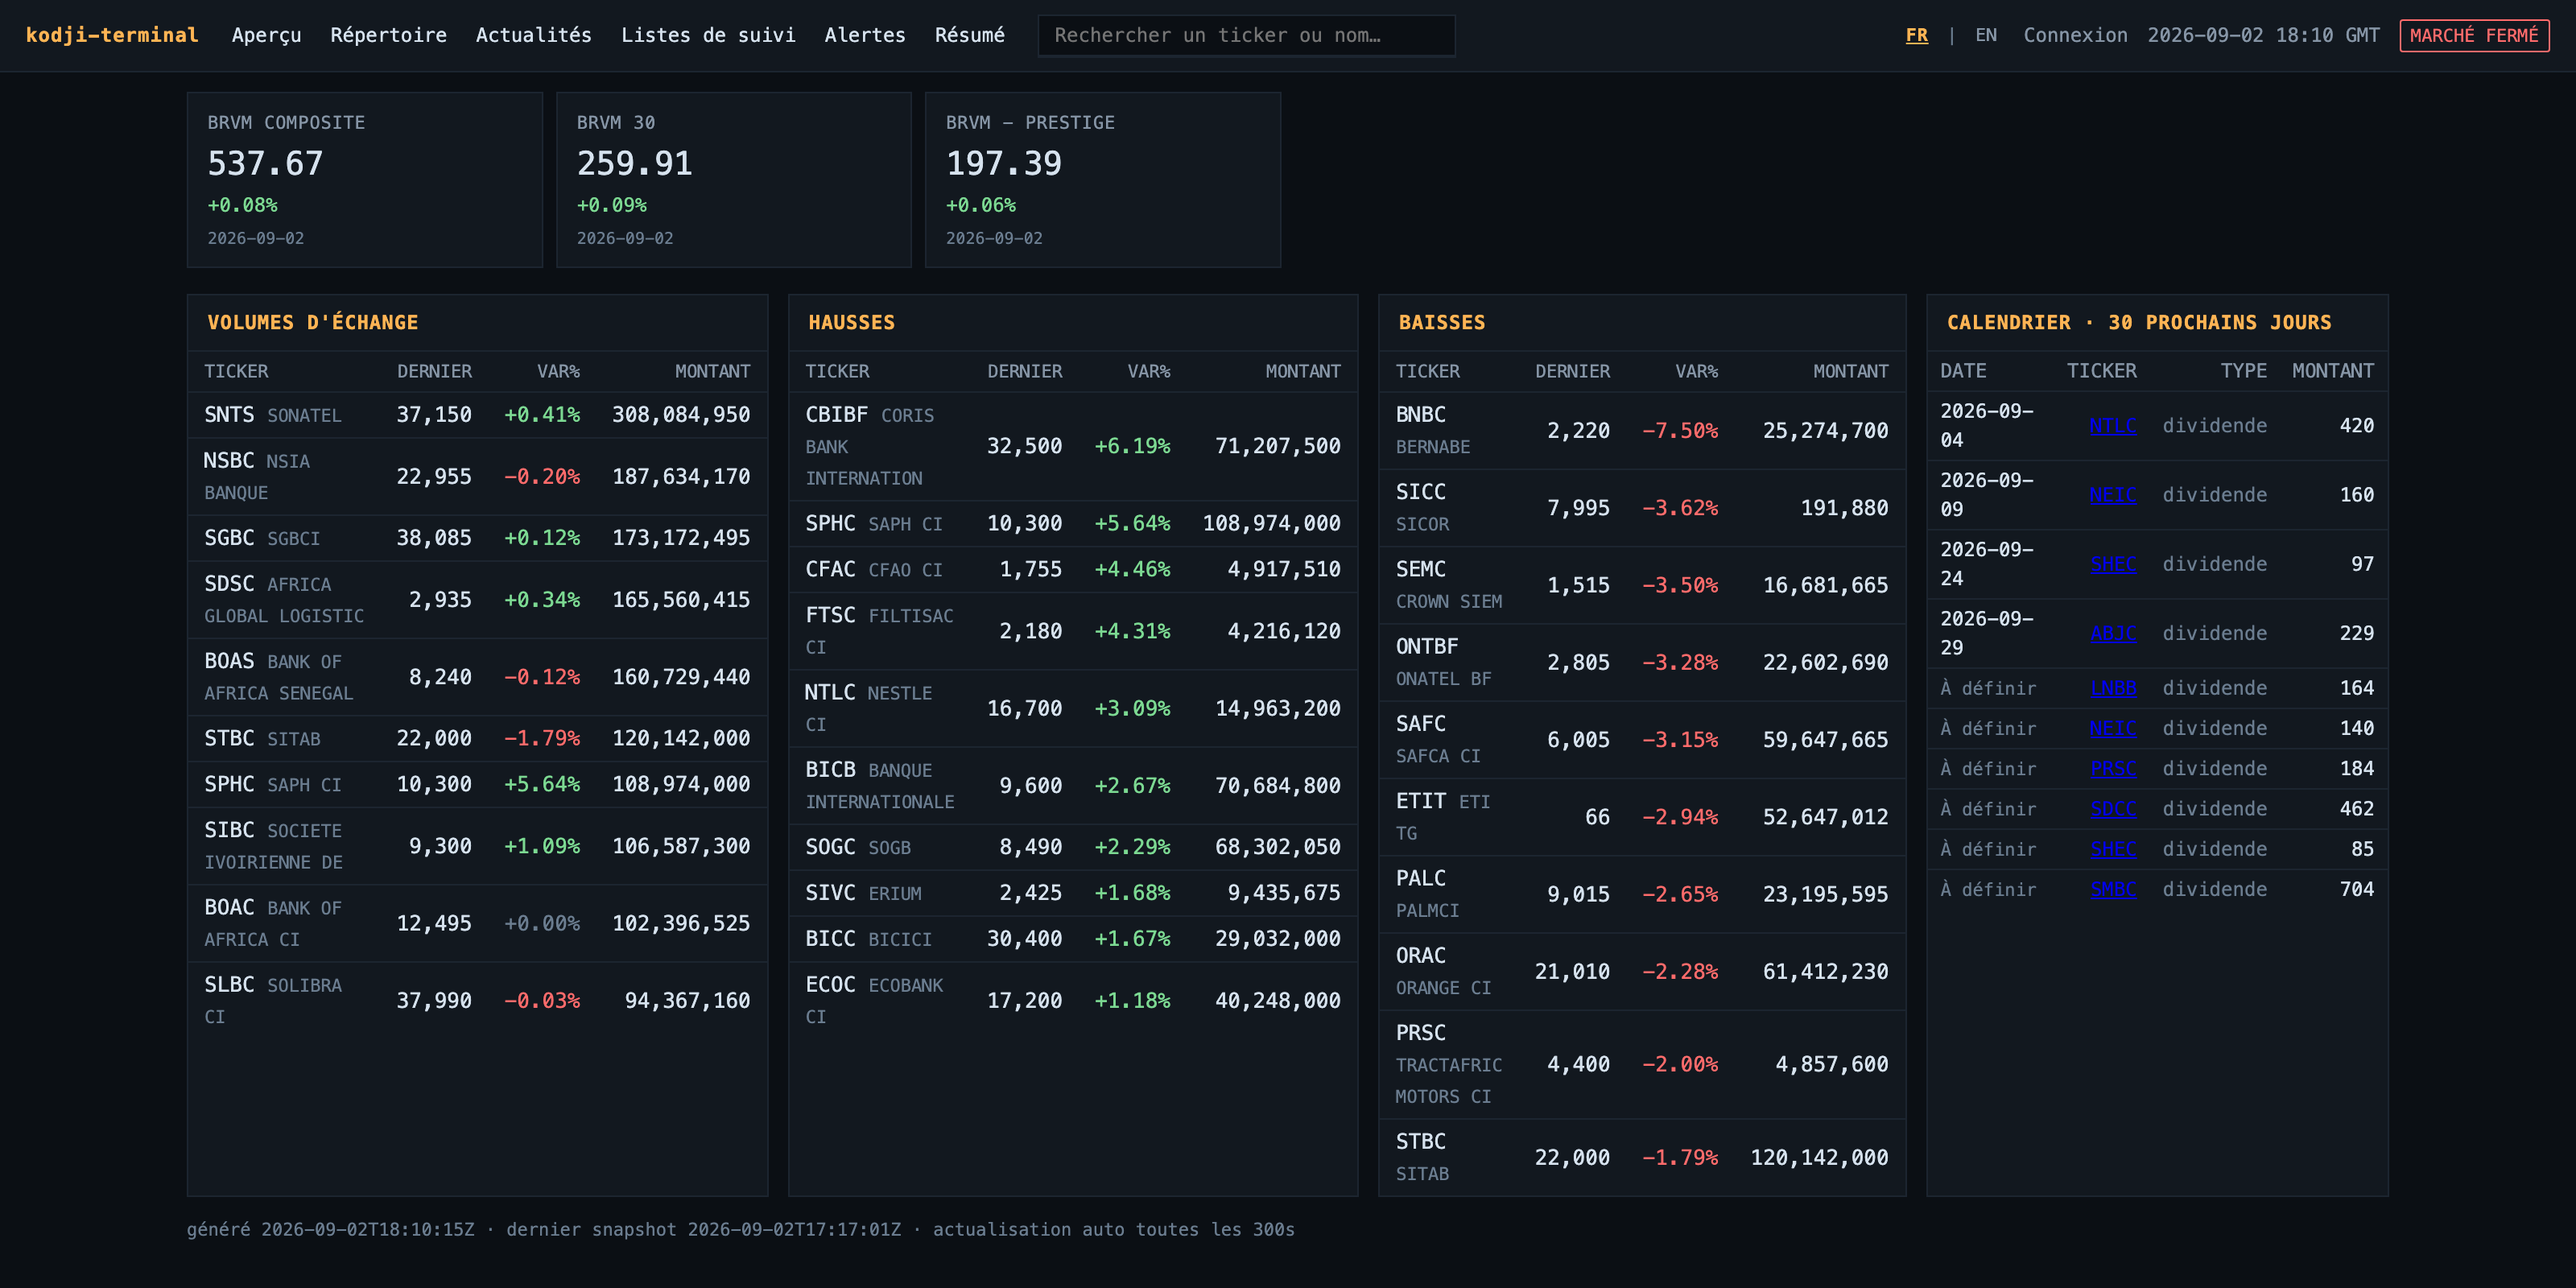
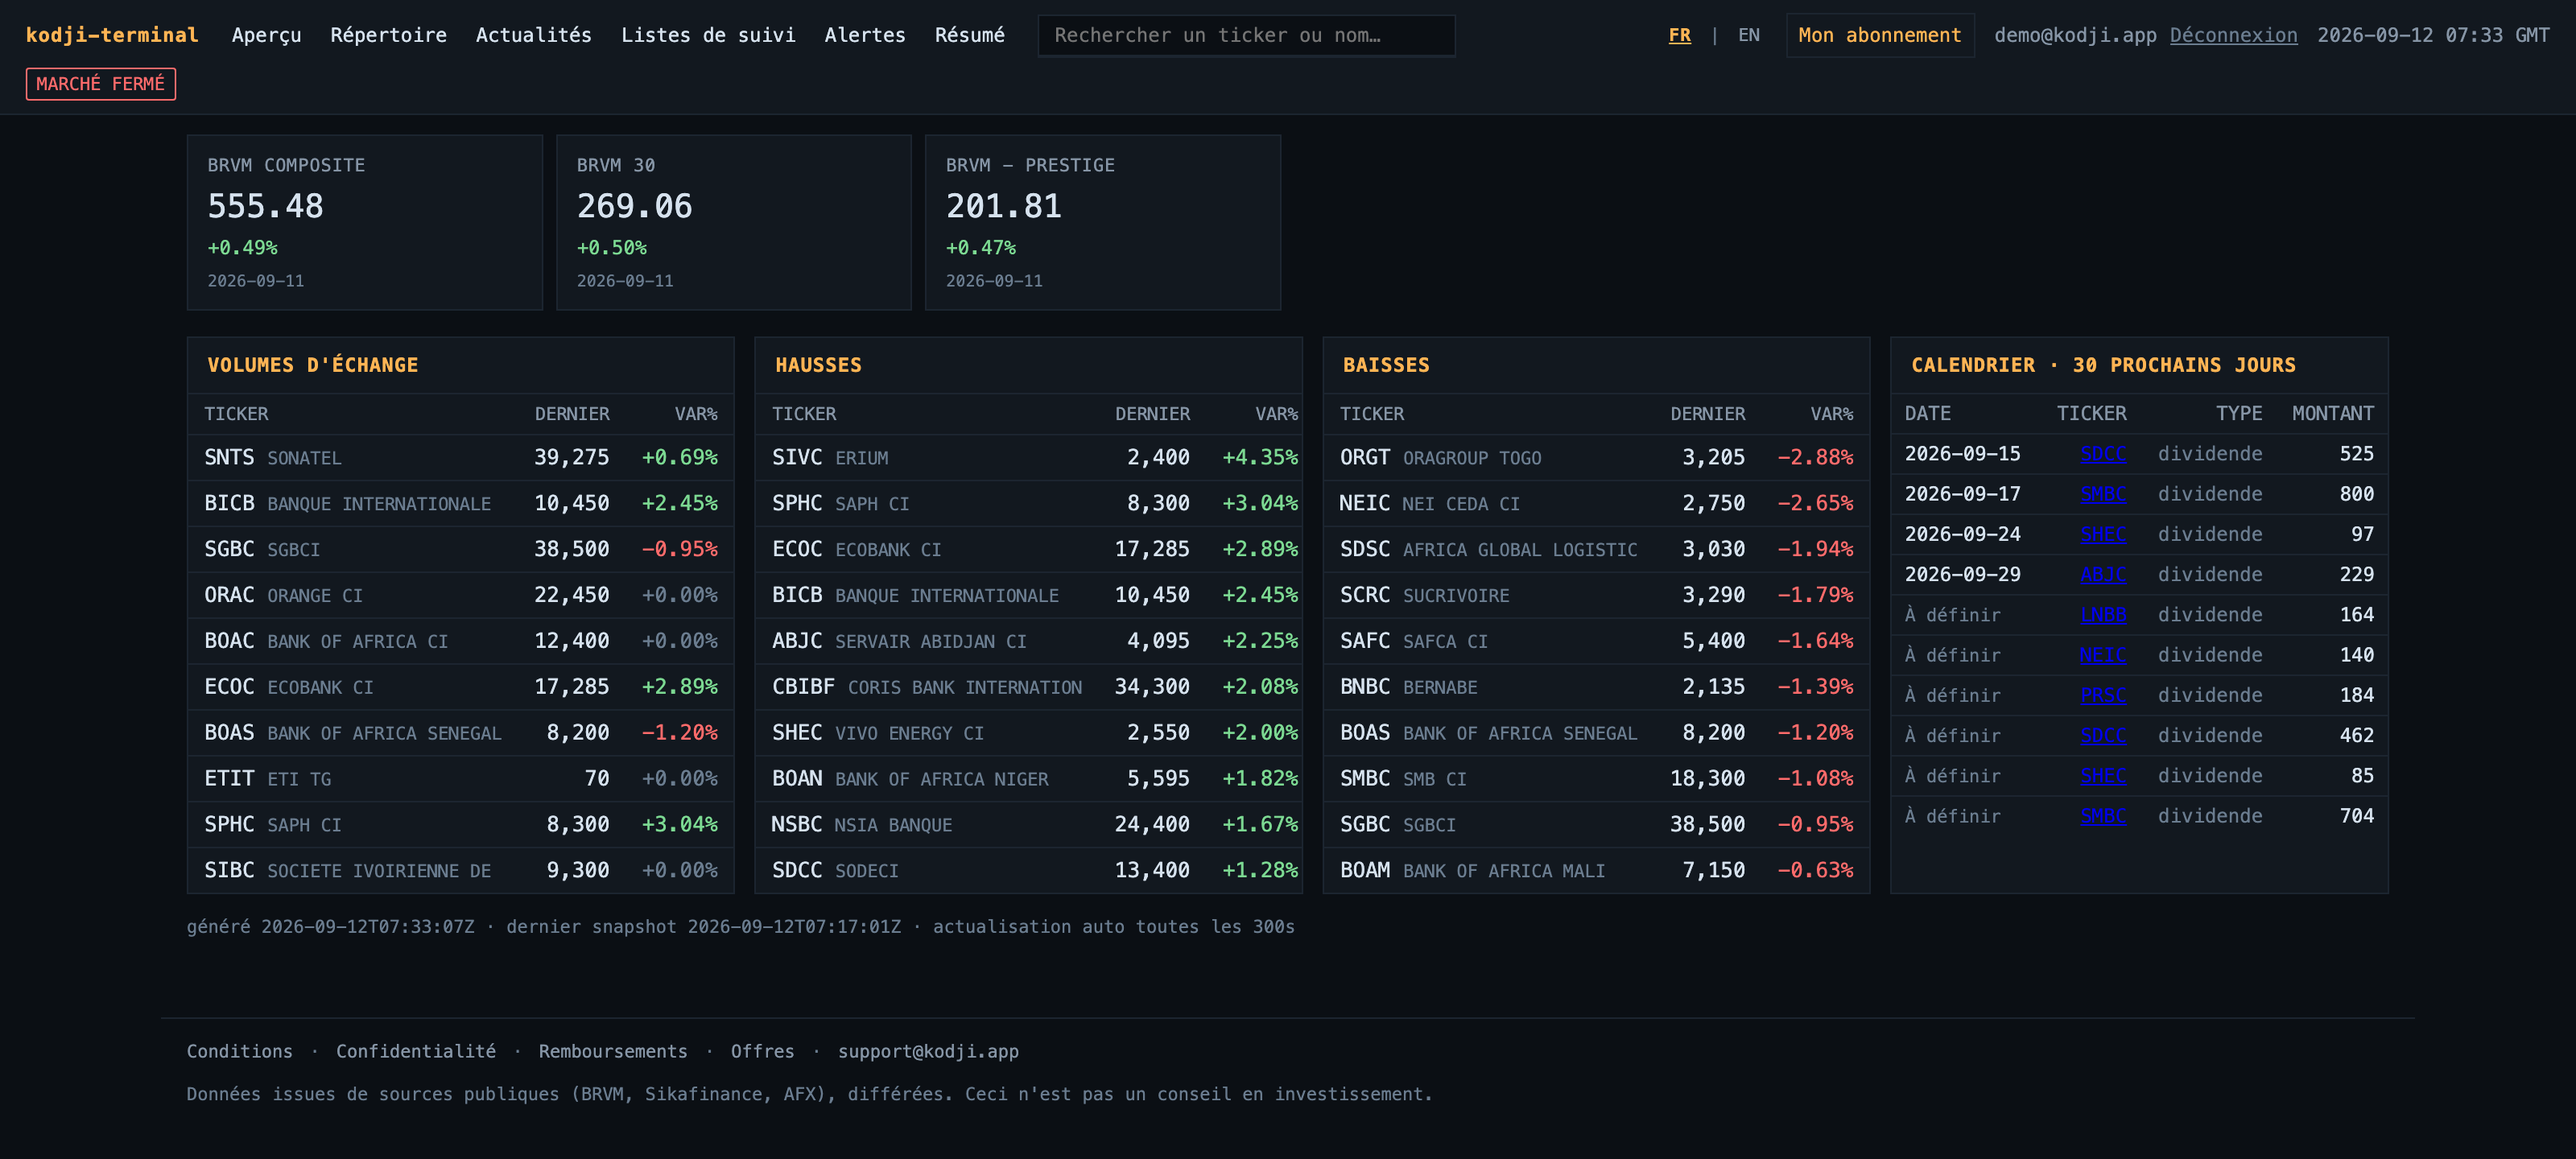
docs: refresh product screenshots as a signed-in paid user
Since PR-Z an anonymous request resolves to the free tier, so the capture
script was getting the 402 upgrade wall on Chart, Brief and Analyst.
Headless Chrome has no cookie jar to hand a session to, so the script now
swaps `identity_for` for one that answers "account 1, demo@kodji.app" in
the capture process only.

Also: the TUI class was renamed to `KodjiTerminalApp` (capture crashed),
the analyst shot moves to 1600 wide because the signed-in topbar no longer
fits on one row at 1400, and overview/brief heights are trimmed to the
new footer.

Claude-Session: https://claude.ai/code/session_01ABsGRzb2tu1NAr3QzqL8ri

diff --git a/scripts/screenshots.py b/scripts/screenshots.py
@@ -19,6 +19,13 @@ hangs on macOS.
 **`--timeout` is what actually ends a capture.** These pages poll (HTMX
 auto-refresh, chart data), so `--virtual-time-budget` never expires and
 Chrome waits forever.
+
+**It captures as a signed-in, paid user.** Since PR-Z an anonymous
+request is the free tier, which hides Chart, Brief and Analyst behind a
+402 — the very pages the set exists to show. Headless Chrome has no
+cookie jar to hand a session to, so `identity_for` is replaced with one
+that answers "account 1, demo@kodji.app" for every request; account 1
+has been paid since migration 0019. The patch lives in this process only.
 """
 
 from __future__ import annotations
@@ -43,16 +50,20 @@ CHROME = "/Applications/Google Chrome.app/Contents/MacOS/Google Chrome"
 # are sized to the content — French copy runs longer than English, so a
 # shot that gains a row needs its height bumped here, not cropped after.
 SHOTS = [
-    ("01-market-overview.png", "/", (1600, 800)),
+    ("01-market-overview.png", "/", (1600, 720)),
     ("02-security-chart-snts.png", "/s/SNTS/chart", (1600, 660)),
     ("03-financials-snts.png", "/s/SNTS/financials", (1600, 2290)),
     ("04-news-feed.png", "/news", (1600, 1312)),
-    ("06-daily-brief.png", "/brief", (1600, 860)),
-    # Narrower than the rest: at 1600 the prose column leaves half the
-    # frame empty. 1400 is the floor that still fits the FR topbar on one row.
-    ("07-analyst-note-snts.png", "/s/SNTS/analyst", (1400, 1610)),
+    ("06-daily-brief.png", "/brief", (1600, 770)),
+    # Same width as the rest: the signed-in topbar (email + sign-out) no
+    # longer fits on one row at 1400, and the archive column fills the
+    # right-hand side that used to sit empty.
+    ("07-analyst-note-snts.png", "/s/SNTS/analyst", (1600, 1500)),
 ]
 TUI_SHOT = "05-tui.png"
+# What the topbar shows as the signed-in user. A real-looking placeholder,
+# not a real mailbox.
+DEMO_EMAIL = "demo@kodji.app"
 
 
 def _free_port() -> int:
@@ -85,15 +96,22 @@ def _serve(port: int) -> threading.Thread:
     class _NoopScheduler:
         def start(self): ...
         def shutdown(self, wait=False): ...
-        def get_jobs(self): return []
+        def get_jobs(self):
+            return []
 
     sched_mod.build_scheduler = lambda *a, **k: _NoopScheduler()
 
+    # Every caller resolves identity through the module attribute (never
+    # `from ... import identity_for`), so one patch covers gating, the
+    # topbar email and the billing page alike.
+    from kodji.services import accounts as accounts_svc
+
+    demo = accounts_svc.Identity(user_id=1, account_id=1, email=DEMO_EMAIL)
+    accounts_svc.identity_for = lambda request=None: demo
+
     from kodji.apps.web.main import app
 
-    server = uvicorn.Server(
-        uvicorn.Config(app, host="127.0.0.1", port=port, log_level="warning")
-    )
+    server = uvicorn.Server(uvicorn.Config(app, host="127.0.0.1", port=port, log_level="warning"))
     t = threading.Thread(target=server.run, daemon=True)
     t.start()
     for _ in range(100):
@@ -108,10 +126,16 @@ def _serve(port: int) -> threading.Thread:
 def _capture(url: str, out: Path, size: tuple[int, int]) -> None:
     subprocess.run(
         [
-            CHROME, "--headless=old", "--no-sandbox", "--disable-gpu",
-            "--hide-scrollbars", "--force-device-scale-factor=2",
-            f"--window-size={size[0]},{size[1]}", "--timeout=12000",
-            f"--screenshot={out}", url,
+            CHROME,
+            "--headless=old",
+            "--no-sandbox",
+            "--disable-gpu",
+            "--hide-scrollbars",
+            "--force-device-scale-factor=2",
+            f"--window-size={size[0]},{size[1]}",
+            "--timeout=12000",
+            f"--screenshot={out}",
+            url,
         ],
         check=True,
         capture_output=True,
@@ -123,22 +147,31 @@ def _capture_tui(out: Path, locale: str) -> None:
     widget tree against the real database and writes an SVG we rasterise."""
     import asyncio
 
-    from kodji.apps.tui.app import KodjiApp
+    from kodji.apps.tui.app import KodjiTerminalApp
 
     svg = out.with_suffix(".svg")
 
     async def run() -> None:
-        app = KodjiApp()
+        app = KodjiTerminalApp()
         async with app.run_test(size=(190, 46)):
             await asyncio.sleep(3)
             app.save_screenshot(str(svg))
 
     asyncio.run(run())
     subprocess.run(
-        [CHROME, "--headless=old", "--no-sandbox", "--disable-gpu",
-         "--force-device-scale-factor=2", "--window-size=2336,1173",
-         "--timeout=8000", f"--screenshot={out}", svg.as_uri()],
-        check=True, capture_output=True,
+        [
+            CHROME,
+            "--headless=old",
+            "--no-sandbox",
+            "--disable-gpu",
+            "--force-device-scale-factor=2",
+            "--window-size=2336,1173",
+            "--timeout=8000",
+            f"--screenshot={out}",
+            svg.as_uri(),
+        ],
+        check=True,
+        capture_output=True,
     )
     svg.unlink()
 

diff --git a/screenshots/README.md b/screenshots/README.md
@@ -30,6 +30,13 @@ to the live DB or fire a job. It is not offline, though: routes that fetch on
 demand (the chart tab pulls history) still reach the network — they just land in
 the throwaway copy.
 
+The shots are taken **as a signed-in, paid user** (`demo@kodji.app` in the
+topbar). Since PR-Z an anonymous request is the free tier, which would turn the
+Chart, Brief and Analyst pages into a 402 upgrade wall. Headless Chrome has no
+cookie jar to hand a session to, so the script swaps `identity_for` for one that
+answers "account 1" for every request — account 1 has been paid since migration
+0019. The patch lives in the capture process only.
+
 Per-shot window sizes live in the `SHOTS` table at the top of the script. French
 copy runs longer than English, so a shot that gains a row needs its height bumped
 there rather than cropped afterwards.
